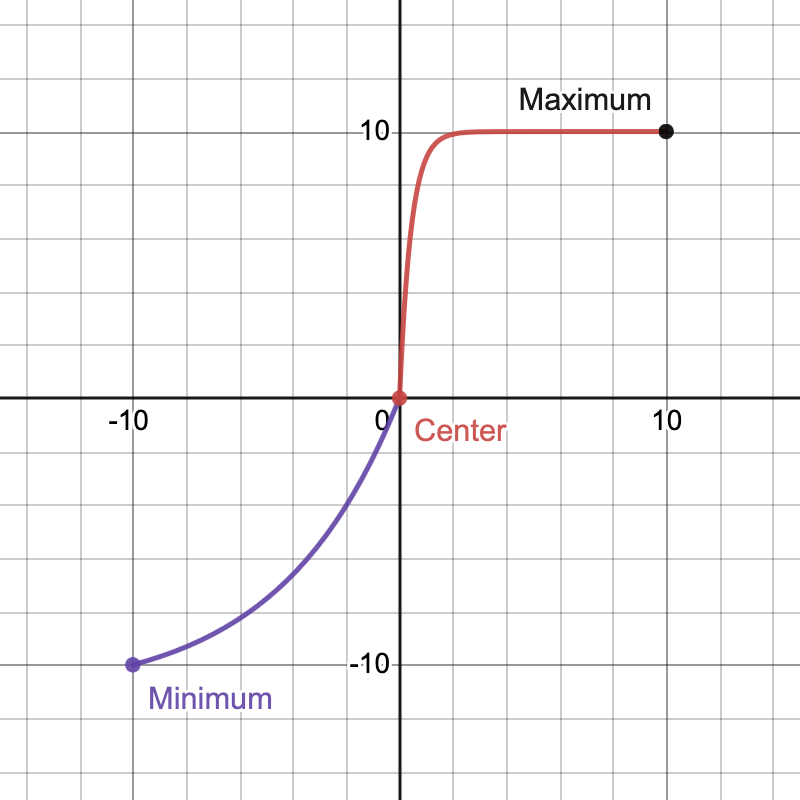
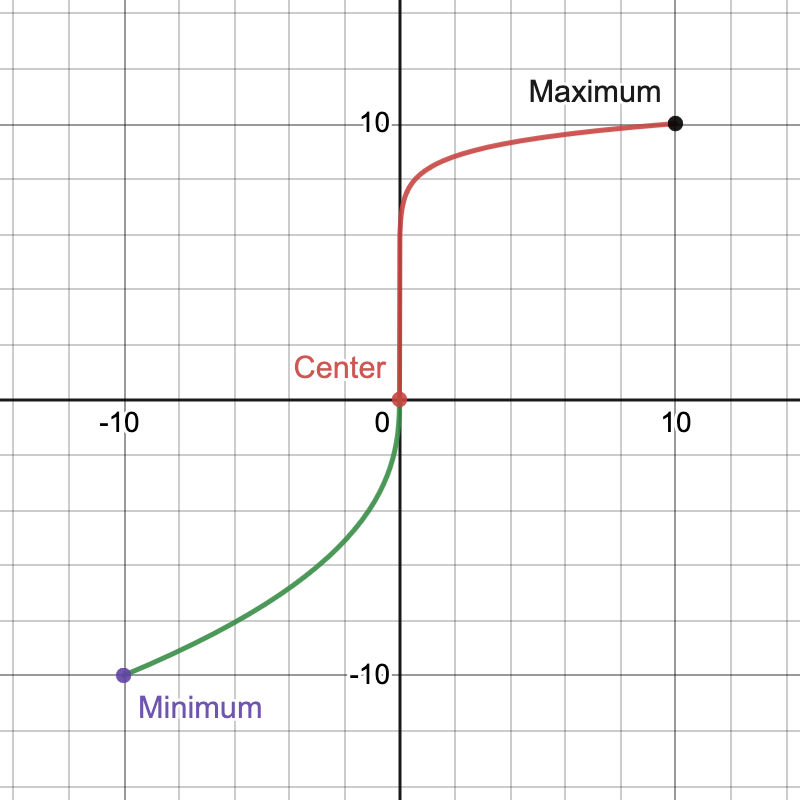
changed some graphs and calculator

Changed region(s): [[0.0, 0.0, 1.0, 1.0]]

diff --git a/README.md b/README.md
@@ -193,8 +193,14 @@ These values will can't be directly controlled.
 |---------------------------------------------------------------------------------------------------------------------|------------------------------------------------------------------------------------------------------------------------|----------------------------------------------------------------------------------------------------------------------------|
 | ![log diagram same bases no center calibration](assets/images/axisCurves/axisGraphLog.png "log axis control curve") | ![log diagram diff base no center calibration](assets/images/axisCurves/axisGraphLogDiff.png "log axis control curve") | ![log diagram diff bases center calibration](assets/images/axisCurves/axisGraphLogDiffCenter.png "log axis control curve") |
 
+##### Other curves (Combinations of all) :
+| Exponential half with other half linear (without center calibration)                                                                                 | Exponential half with other half linear, (different) center calibration                                                                                       | Logarithmic half with other half exponential, (different) center calibration                                                                        |
+|------------------------------------------------------------------------------------------------------------------------------------------------------|---------------------------------------------------------------------------------------------------------------------------------------------------------------|-----------------------------------------------------------------------------------------------------------------------------------------------------|
+| ![Exponential half with other half linear (without center calibration)](assets/images/axisCurves/axisGraphExpoLinear.png "other axis control curve") | ![Exponential half with other half linear, (different) center calibration](assets/images/axisCurves/axisGraphExpoLinearCenter.png "other axis control curve") | ![Logarithmic half with Exponential other, (different) center calibration](assets/images/axisCurves/axisGraphExpoLog.png "other axis control curve") |
+
+
 **Note:**
-There are many other ways to adjust the curves. See also the Desmos calculator: [Desmos calculator](https://www.desmos.com/calculator/uvswftkddu)  
+There are many other ways to adjust the curves. See also the Desmos calculator: [Desmos calculator](https://www.desmos.com/calculator/y6jawpiyea)  
 Note that the values of the Desmos calculator do not match those of the device.
 
 
@@ -268,8 +274,6 @@ If there are any bugs/problems, or you have any questions, please contact me.
 
 
 **ToDo**
-
-In expo and log mode in value expo + c0 (see desmos)
 
 Check Keyboard Analog/Digital Buttons/axes count etc.
 
